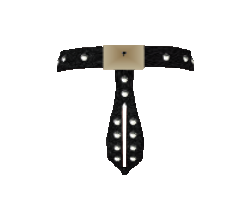
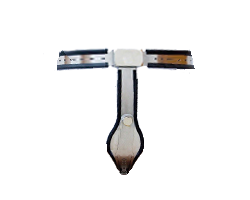
New Chastity Belts and Management Tweak
-Added New Metal Chastity Belt with new preview picture
-Changed Metal Chastity Belt to Studded Chastity Belt giving new preview picture
-Added New Leather Chastity Belt using metal chastity belt's old preview picture
-Management will now no longer remove Owner Locked chastity devices

Changed region(s): [[0.224, 0.21, 0.784, 0.9]]

diff --git a/BondageClub/Screens/Room/Management/Management.js b/BondageClub/Screens/Room/Management/Management.js
@@ -30,13 +30,13 @@ function ManagementCanPlayWithoutPermission() { return (!ManagementMistressAllow
 function ManagementOwnerFromBondageCollege() { return ((Player.Owner == "NPC-Sidney") || (Player.Owner == "NPC-Amanda") || (Player.Owner == "NPC-Jennifer")) }
 function ManagementOwnerInPrivateRoom() { return PrivateOwnerInRoom() }
 function ManagementOwnerAway() { return !((Player.Owner == "NPC-Sidney") || (Player.Owner == "NPC-Amanda") || (Player.Owner == "NPC-Jennifer")) }
-function ManagementAllowReleaseChastity() { return (Player.IsChaste() && ManagementCanReleaseChastity) }
+function ManagementAllowReleaseChastity() { return (Player.IsChaste() && ManagementCanReleaseChastity && !InventoryOwnerOnlyItem(InventoryGet(Player, "ItemBreast"))&& !InventoryOwnerOnlyItem(InventoryGet(Player, "ItemPelvis"))) }
 function ManagementRefuseReleaseChastity() { return (Player.IsChaste() && !ManagementCanReleaseChastity) }
 function ManagementOwnerPending() { return (CommonTime() < ManagementMistressReleaseTimer) }
 function ManagementOwnerAccepted() { return ((CommonTime() >= ManagementMistressReleaseTimer) && ManagementCanReleaseChastity) }
 function ManagementOwnerRefused() { return ((CommonTime() >= ManagementMistressReleaseTimer) && !ManagementCanReleaseChastity) }
-function ManagementCanUnlockBra() { return ((Player.Money >= 25) && Player.IsBreastChaste()) }
-function ManagementCanUnlockBelt() { return ((Player.Money >= 25) && Player.IsVulvaChaste()) }
+function ManagementCanUnlockBra() { return ((Player.Money >= 25) && Player.IsBreastChaste() && !InventoryOwnerOnlyItem(InventoryGet(Player, "ItemBreast"))) }
+function ManagementCanUnlockBelt() { return ((Player.Money >= 25) && Player.IsVulvaChaste() && !InventoryOwnerOnlyItem(InventoryGet(Player, "ItemPelvis"))) }
 function ManagementEndChastityRelease() { ManagementMistressReleaseTimer = 0 }
 function ManagementCanReleaseFromOwnerFirst() { return ((Player.Money >= 60) && !LogQuery("ReleasedFromOwner", "Management")) }
 function ManagementCanReleaseFromOwner() { return ((Player.Money >= 200) && LogQuery("ReleasedFromOwner", "Management")) }

diff --git a/BondageClub/Assets/Female3DCG/Female3DCG.js b/BondageClub/Assets/Female3DCG/Female3DCG.js
@@ -514,7 +514,9 @@ var AssetFemale3DCG = [
 		Top: 375,
 		Zone: [[150, 420, 200, 80]],
 		Asset: [
-			{ Name: "MetalChastityBelt", Effect: ["Chaste"], Block: ["ItemVulva", "ItemButt"], Value: 100, Prerequisite: "AccessVulva", AllowLock: true, Difficulty: 50, Time: 20, RemoveTime: 10, ExpressionTrigger: [{ Group: "Eyebrows", Name: "Soft", Timer: 10 }] },
+			{ Name: "MetalChastityBelt", Effect: ["Chaste"], Block: ["ItemVulva", "ItemButt"], Value: 250, Prerequisite: "AccessVulva", AllowLock: true, Difficulty: 50, Time: 20, RemoveTime: 10, ExpressionTrigger: [{ Group: "Eyebrows", Name: "Soft", Timer: 10 }] },
+			{ Name: "StuddedChastityBelt", Effect: ["Chaste"], Block: ["ItemVulva", "ItemButt"], Value: 100, Prerequisite: "AccessVulva", AllowLock: true, Difficulty: 20, Time: 20, RemoveTime: 10, ExpressionTrigger: [{ Group: "Eyebrows", Name: "Soft", Timer: 10 }] },
+			{ Name: "LeatherChastityBelt", Effect: ["Chaste"], Block: ["ItemVulva", "ItemButt"], Value: 50, Prerequisite: "AccessVulva", AllowLock: true, Difficulty: 10, Time: 20, RemoveTime: 10, ExpressionTrigger: [{ Group: "Eyebrows", Name: "Soft", Timer: 10 }] },
 			{ Name: "LeatherCrop", Value: 40, Wear: false, BuyGroup: "LeatherCrop", Bonus: [{ Type: "KidnapDomination", Factor: 3 }], ExpressionTrigger: [{ Group: "Blush", Name: "Low", Timer: 10 }, { Group: "Eyebrows", Name: "Soft", Timer: 10 }] },
 			{ Name: "LeatherWhip", Value: 60, Wear: false, BuyGroup: "LeatherWhip", Bonus: [{ Type: "KidnapBruteForce", Factor: 3 }], ExpressionTrigger: [{ Group: "Blush", Name: "Medium", Timer: 10 }, { Group: "Eyebrows", Name: "Soft", Timer: 10 }] },
 			{ Name: "StraponPanties", Effect: ["Chaste"], Block: ["ItemVulva", "ItemButt"], Value: 50, Prerequisite: "AccessVulva", Time: 15 },
